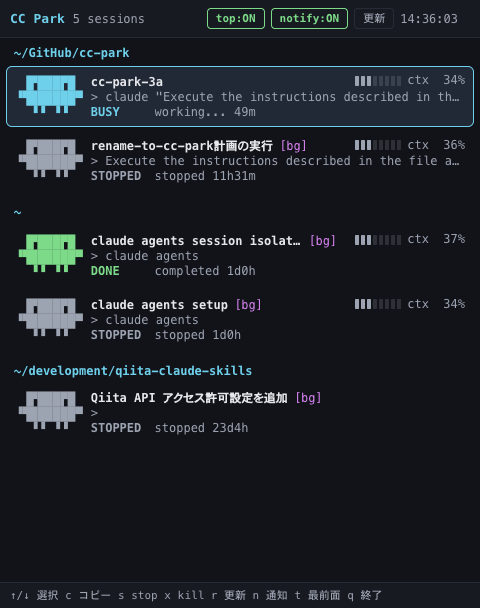
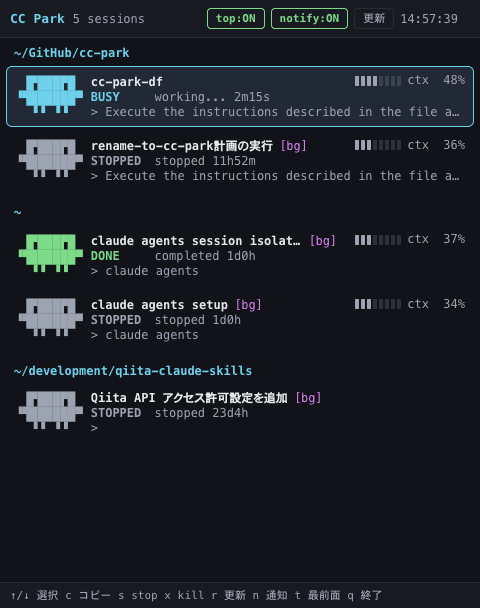
セッション一覧の表示順とキャラクターの歩行アニメーションを調整 (#4)
* 状態行と最終プロンプト行の並び順を入れ替え

セッション行の表示を「名前 / 状態 / プロンプト」の順に変更した。
TUI と GUI の両方、および README の表示サンプルと GUI の
スクリーンショットを同じ並びに揃えた。

* セッションのグループを cwd の昇順に並べ替え

グループ（作業ディレクトリ）の並び順を「要対応のセッションを含む
グループが上・同順なら起動が新しい順」から cwd の昇順に変更する。
グループ内の優先度順と、cwd 不明を末尾に置く扱いは従来どおり。

* 歩行アニメーションの足を左手側へ踏み出す形に変更

足の踏み出す向きを常に左手側（桁 8 の方向）に統一し、
「開く」は外側の足が隣の桁へ出て `▘`、「閉じる」は内側の足が寄って
ペアが 1 つの `▀` に繋がるようにする。README の AA と説明も合わせて更新。

* 歩行アニメーションを 6 フレームに整理して足の順番を変更

各動作の間に挟んでいた標準フレームを減らし、
「右足を閉じる → 右足を開く → 標準 → 左足を閉じる → 左足を開く → 標準」
の 6 フレーム（1200ms 周期）に変更する。
足がいったん寄ってから外へ出るので、左手側へ踏み出す流れが分かりやすくなる。
README の AA・フレーム数・説明も合わせて更新。

---------

diff --git a/src/shared/groupAgents.test.ts b/src/shared/groupAgents.test.ts
@@ -34,20 +34,34 @@ describe('groupAgents', () => {
     expect(keys(groups[0]?.agents ?? [])).toEqual(['a', 'c']);
   });
 
-  it('要対応のセッションを持つグループを上に置く', () => {
+  it('グループは cwd の昇順に並べる', () => {
+    const groups = groupAgents([
+      agent('y', '/tmp/y'),
+      agent('x', '/tmp/x'),
+      agent('z', '/tmp/z'),
+    ]);
+    expect(groups.map((group) => group.cwd)).toEqual(['/tmp/x', '/tmp/y', '/tmp/z']);
+  });
+
+  it('親ディレクトリは配下のディレクトリより先に置く', () => {
+    const groups = groupAgents([
+      agent('child', '/Users/naoki/xxx'),
+      agent('home', '/Users/naoki'),
+      agent('sibling', '/Users/naoki/yyy'),
+    ]);
+    expect(groups.map((group) => group.cwd)).toEqual([
+      '/Users/naoki',
+      '/Users/naoki/xxx',
+      '/Users/naoki/yyy',
+    ]);
+  });
+
+  it('要対応のセッションを含んでいても cwd の昇順を崩さない', () => {
     const groups = groupAgents([
       agent('idle', '/tmp/x', 'waiting'),
       agent('blocked', '/tmp/y', 'blocked'),
     ]);
-    expect(groups.map((group) => group.cwd)).toEqual(['/tmp/y', '/tmp/x']);
-  });
-
-  it('優先度が同じなら新しいセッションを持つグループを上に置く', () => {
-    const groups = groupAgents([
-      agent('old', '/tmp/x', 'waiting', 100),
-      agent('new', '/tmp/y', 'waiting', 200),
-    ]);
-    expect(groups.map((group) => group.cwd)).toEqual(['/tmp/y', '/tmp/x']);
+    expect(groups.map((group) => group.cwd)).toEqual(['/tmp/x', '/tmp/y']);
   });
 
   it('グループ内は従来どおり優先度順に並べる', () => {
@@ -88,7 +102,7 @@ describe('flattenGroups', () => {
       agent('blocked', '/tmp/y', 'blocked'),
       agent('done', '/tmp/y', 'done'),
     ]);
-    expect(keys(flattenGroups(groups))).toEqual(['blocked', 'done', 'idle']);
+    expect(keys(flattenGroups(groups))).toEqual(['idle', 'blocked', 'done']);
   });
 
   it('件数はグループ化の前後で変わらない', () => {

diff --git a/src/shared/characters.ts b/src/shared/characters.ts
@@ -23,12 +23,15 @@ export const LEGS = '  ▝▝ ▝▝  ';
 /*
  * 歩くときの足。足は桁 2 / 3（右足）と桁 5 / 6（左足）に 2 本ずつある。
  * 左右はキャラクター自身から見た向きで、手と同じく正面を向いているため入れ替わる。
- * 「開く」はペアの手前、「閉じる」は奥の足が半セルぶん動く。
+ *
+ * 踏み出す向きは常に左手側（桁 8 の方向）。半セルぶん右へずらすので、
+ * 「開く」は外側の足が隣の桁へ出て `▘` になり、
+ * 「閉じる」は内側の足が寄ってペアが 1 つの `▀` に繋がる。
  */
-const LEGS_RIGHT_OPEN = '  ▘▝ ▝▝  ';
-const LEGS_RIGHT_CLOSED = '  ▝▘ ▝▝  ';
-const LEGS_LEFT_OPEN = '  ▝▝ ▘▝  ';
-const LEGS_LEFT_CLOSED = '  ▝▝ ▝▘  ';
+const LEGS_RIGHT_OPEN = '  ▝ ▘▝▝  ';
+const LEGS_RIGHT_CLOSED = '   ▀ ▝▝  ';
+const LEGS_LEFT_OPEN = '  ▝▝ ▝ ▘ ';
+const LEGS_LEFT_CLOSED = '  ▝▝  ▀  ';
 
 /** 未知の状態は足を不揃いにする。 */
 const UNEVEN_LEGS = '  ▘▝ ▝▘  ';
@@ -96,15 +99,13 @@ export const CHARACTERS: Readonly<Record<CharacterState, CharacterAppearance>> =
     priority: 1,
   },
   working: {
-    // 手は下ろしたまま、右足 → 左足 の順に開いて閉じて歩く
+    // 手は下ろしたまま、右足 → 左足 の順に左手側へ閉じて開き、毎回標準へ戻って歩く
     frames: [
+      frame('down', LEGS_RIGHT_CLOSED),
       frame('down', LEGS_RIGHT_OPEN),
       frame('down'),
-      frame('down', LEGS_RIGHT_CLOSED),
-      frame('down'),
-      frame('down', LEGS_LEFT_OPEN),
-      frame('down'),
       frame('down', LEGS_LEFT_CLOSED),
+      frame('down', LEGS_LEFT_OPEN),
       frame('down'),
     ],
     color: 'cyan',

diff --git a/src/shared/groupAgents.ts b/src/shared/groupAgents.ts
@@ -1,5 +1,4 @@
 import type { Agent } from '../types/agent.js';
-import { getAppearance } from './characters.js';
 import { sortAgents } from './sortAgents.js';
 
 /**
@@ -18,20 +17,9 @@ export interface AgentGroup {
   readonly agents: readonly Agent[];
 }
 
-/** グループの並び順に使う代表値。要対応のセッションを持つグループを上に出す。 */
-const groupPriority = (agents: readonly Agent[]): number =>
-  agents.reduce(
-    (best, agent) => Math.min(best, getAppearance(agent.state).priority),
-    Number.POSITIVE_INFINITY,
-  );
-
-/** 同じ優先度のグループ同士は、より新しいセッションを持つ方を上に出す。 */
-const groupStartedAt = (agents: readonly Agent[]): number =>
-  agents.reduce((latest, agent) => Math.max(latest, agent.startedAt), 0);
-
 /**
  * cwd ごとにまとめ、グループ内は従来どおり `sortAgents` で並べる。
- * cwd が空のグループは特定できないので必ず最後に置く。
+ * グループ同士は cwd の昇順。cwd が空のグループは特定できないので必ず最後に置く。
  */
 export const groupAgents = (agents: readonly Agent[]): AgentGroup[] => {
   const buckets = new Map<string, Agent[]>();
@@ -53,11 +41,11 @@ export const groupAgents = (agents: readonly Agent[]): AgentGroup[] => {
         return unknownDiff;
       }
 
-      const priorityDiff = groupPriority(a.agents) - groupPriority(b.agents);
-      if (priorityDiff !== 0) {
-        return priorityDiff;
+      // ロケールによる揺れを避けるため、単純な文字列比較で昇順に並べる
+      if (a.cwd === b.cwd) {
+        return 0;
       }
-      return groupStartedAt(b.agents) - groupStartedAt(a.agents);
+      return a.cwd < b.cwd ? -1 : 1;
     });
 };
 

diff --git a/src/gui/renderer/components/AgentRow/index.tsx b/src/gui/renderer/components/AgentRow/index.tsx
@@ -40,10 +40,10 @@ interface AgentRowProps {
 }
 
 /**
- * 1 セッション分の行。キャラクター・名前・トークン・最終プロンプト・状態を表示する。
+ * 1 セッション分の行。キャラクター・名前・トークン・状態・最終プロンプトを表示する。
  *
  * cwd はグループ見出しへ移したので行には出さない。
- * 情報が 3 行に満たないときは下揃えになり、状態行が AA の足の行に並ぶ。
+ * 情報が 3 行に満たないときは下揃えになり、最後の行が AA の足の行に並ぶ。
  */
 const AgentRowComponent = ({
   agent,
@@ -79,7 +79,7 @@ const AgentRowComponent = ({
       <Character state={agent.state} frame={frame} />
 
       {/*
-        AA の 3 行と 1 対 1 で対応させる（名前 / プロンプト / 状態）。
+        AA の 3 行と 1 対 1 で対応させる（名前 / 状態 / プロンプト）。
         プロンプトが取れない場合は 2 行になり、下揃えで足の行に状態が来る。
       */}
       <div className="agent-row__info">
@@ -109,16 +109,16 @@ const AgentRowComponent = ({
           )}
         </div>
 
+        <div className="agent-row__line">
+          <StatusBadge state={agent.state} />
+          <span className="agent-row__detail">{`${detail} ${elapsed}`}</span>
+        </div>
+
         {showPrompt ? (
           <div className="agent-row__line">
             <span className="agent-row__prompt">{promptLine(lastPrompt)}</span>
           </div>
         ) : null}
-
-        <div className="agent-row__line">
-          <StatusBadge state={agent.state} />
-          <span className="agent-row__detail">{`${detail} ${elapsed}`}</span>
-        </div>
       </div>
     </li>
   );

diff --git a/src/components/AgentRow/index.tsx b/src/components/AgentRow/index.tsx
@@ -42,10 +42,10 @@ interface AgentRowProps {
 }
 
 /**
- * 1 セッション分の行。キャラクター・名前・トークン・最終プロンプト・状態を表示する。
+ * 1 セッション分の行。キャラクター・名前・トークン・状態・最終プロンプトを表示する。
  *
  * cwd はグループ見出しへ移したので行には出さない。
- * 情報が 3 行に満たないときは下揃えになり、状態行が AA の足の行に並ぶ。
+ * 情報が 3 行に満たないときは下揃えになり、最後の行が AA の足の行に並ぶ。
  */
 const AgentRowComponent = ({
   agent,
@@ -86,7 +86,7 @@ const AgentRowComponent = ({
       </Box>
 
       {/*
-        AA の 3 行と 1 対 1 で対応させる（名前 / プロンプト / 状態）。
+        AA の 3 行と 1 対 1 で対応させる（名前 / 状態 / プロンプト）。
         プロンプトが取れない場合は 2 行になり、下揃えで足の行に状態が来る。
       */}
       <Box flexDirection="column" width={infoWidth}>
@@ -112,16 +112,16 @@ const AgentRowComponent = ({
           ) : null}
         </Box>
 
+        <Text wrap="truncate-end">
+          <StatusBadge state={agent.state} />
+          <Text dimColor>{` ${detail} ${elapsed}`}</Text>
+        </Text>
+
         {showPrompt ? (
           <Text wrap="truncate-end" dimColor>
             {promptLine(lastPrompt)}
           </Text>
         ) : null}
-
-        <Text wrap="truncate-end">
-          <StatusBadge state={agent.state} />
-          <Text dimColor>{` ${detail} ${elapsed}`}</Text>
-        </Text>
       </Box>
     </Box>
   );

diff --git a/src/components/AgentRow/AgentRow.test.tsx b/src/components/AgentRow/AgentRow.test.tsx
@@ -109,8 +109,8 @@ describe('AgentRow の付加情報', () => {
 
   it('最終プロンプトが無くても目印だけは出して行数を揃える', () => {
     const lines = renderRow().split('\n');
-    expect(lines[1]?.trimEnd().endsWith('>')).toBe(true);
-    expect(lines[1]).not.toContain('> ');
+    expect(lines[2]?.trimEnd().endsWith('>')).toBe(true);
+    expect(lines[2]).not.toContain('> ');
   });
 
   it('コンテキスト利用率をバーとパーセントで表示する', () => {
@@ -151,11 +151,11 @@ describe('AgentRow の付加情報', () => {
     expect(output).toContain('cc-park');
   });
 
-  it('showPrompt が有効なら 3 行になり 1 行目から名前が並ぶ', () => {
+  it('showPrompt が有効なら 3 行になり 名前・状態・プロンプトの順に並ぶ', () => {
     const lines = withMeta({ lastPrompt: 'やって', tokens: undefined }).split('\n');
     expect(lines[0]).toContain('cc-park');
-    expect(lines[1]).toContain('> やって');
-    expect(lines[2]).toContain('BUSY');
+    expect(lines[1]).toContain('BUSY');
+    expect(lines[2]).toContain('> やって');
   });
 
   it('showPrompt が無効なら 2 行になり下揃えで足の行に状態が並ぶ', () => {

diff --git a/src/gui/renderer/components/AgentRow/AgentRow.test.tsx b/src/gui/renderer/components/AgentRow/AgentRow.test.tsx
@@ -125,6 +125,16 @@ describe('AgentRow の付加情報', () => {
     expect(container.querySelector('.agent-row__prompt')?.textContent).toBe('>');
   });
 
+  it('名前・状態・プロンプトの順に並べる', () => {
+    const { container } = setup({
+      agent: agent({ meta: { lastPrompt: 'やって', tokens: undefined } }),
+    });
+    const lines = container.querySelectorAll('.agent-row__line');
+    expect(lines[0]?.querySelector('.agent-row__name')).not.toBeNull();
+    expect(lines[1]?.querySelector('.status-badge')).not.toBeNull();
+    expect(lines[2]?.querySelector('.agent-row__prompt')).not.toBeNull();
+  });
+
   it('コンテキスト利用率をパーセントで表示する', () => {
     const { container } = setup({
       agent: agent({

diff --git a/src/gui/renderer/styles.css b/src/gui/renderer/styles.css
@@ -201,7 +201,7 @@ body {
 
 .agent-row {
   display: flex;
-  /* 情報が 3 行に満たないときも状態行が AA の足の行に並ぶよう下揃えにする */
+  /* 情報が 3 行に満たないときも最後の行が AA の足の行に並ぶよう下揃えにする */
   align-items: flex-end;
   gap: 8px;
   padding: 6px 8px;
@@ -323,7 +323,7 @@ body {
 
 .status-badge {
   font-weight: 700;
-  /* ラベル幅を固定して 2 行目の開始位置を揃える */
+  /* ラベル幅を固定して説明文の開始位置を揃える */
   min-width: 8ch;
   flex-shrink: 0;
 }
